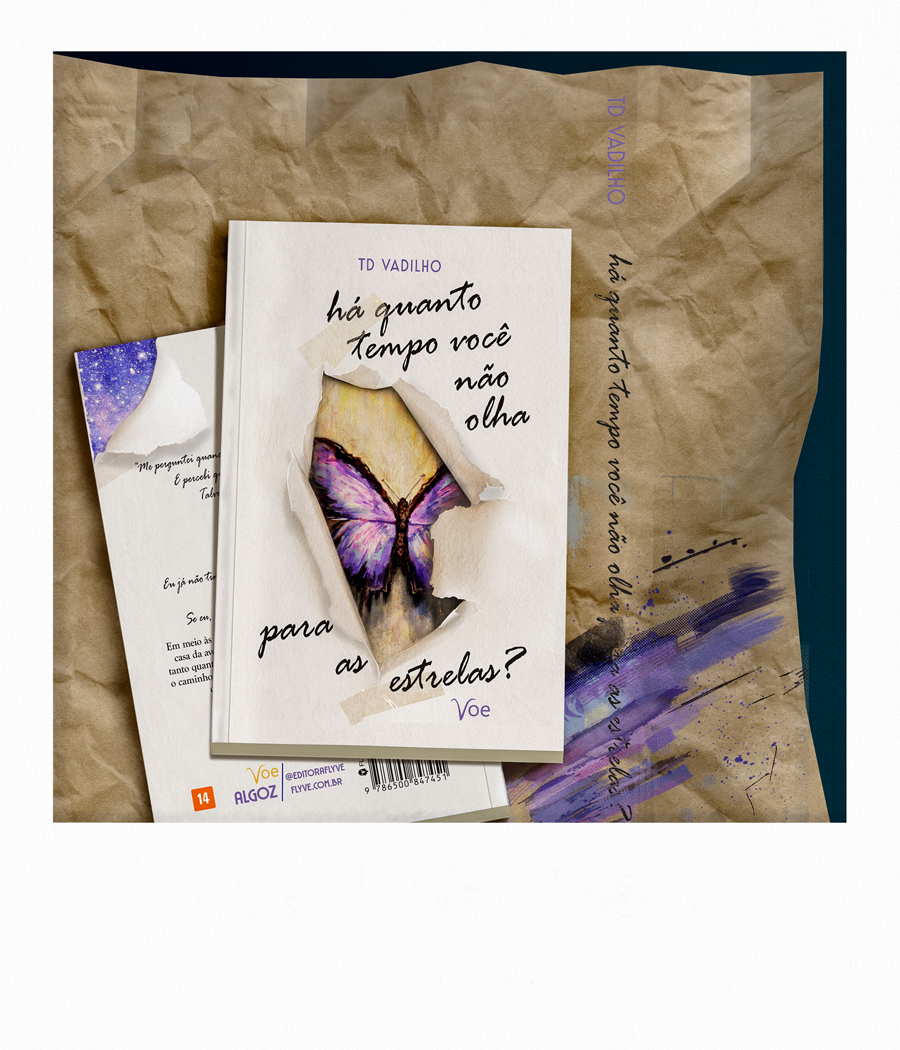
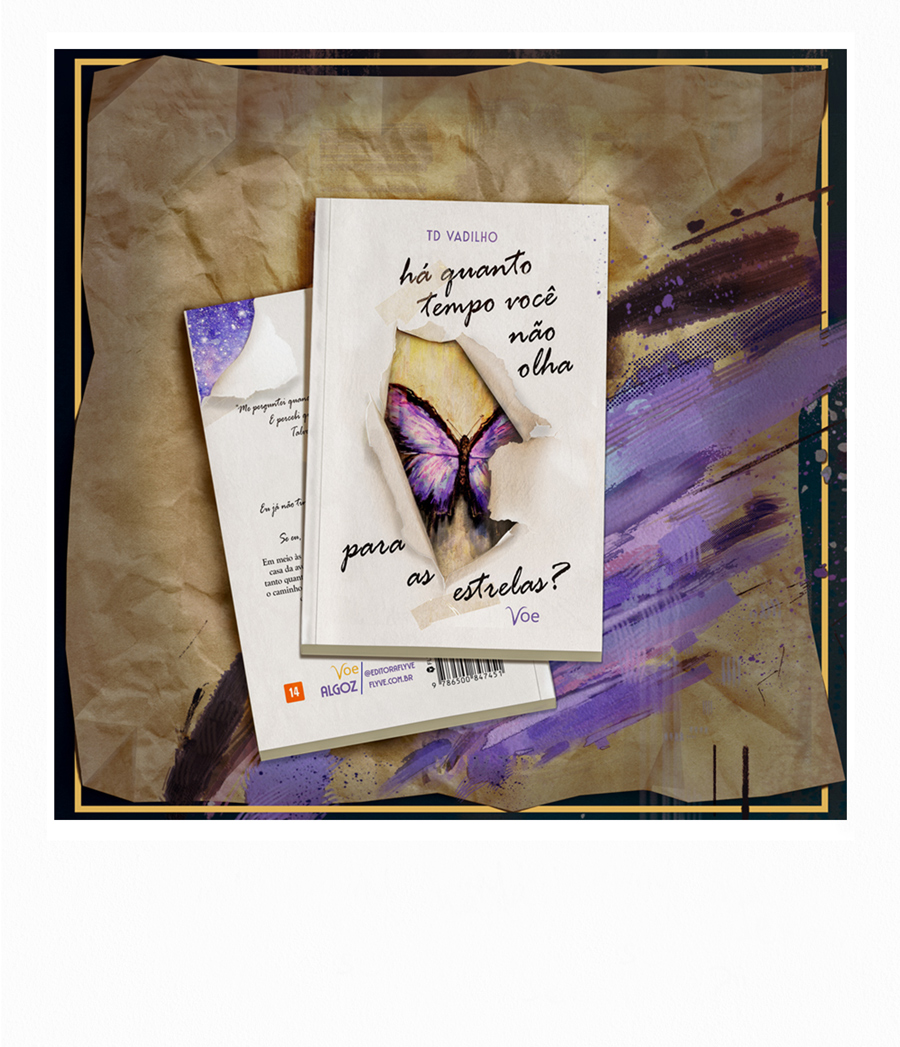
testando coisas da pre-venda

diff --git a/layouts/newsletter/index.html b/layouts/newsletter/index.html
@@ -168,7 +168,7 @@
 
 <!-- NOVIDADE -->
     <!--[if mso | IE]></td></tr></table><table align="center" border="0" cellpadding="0" cellspacing="0" class="" style="width:600px;" width="600" bgcolor="#ffffff" ><tr><td style="line-height:0px;font-size:0px;mso-line-height-rule:exactly;"><![endif]-->
-		<div style="background:#ffffff; background-color:#ffffff; margin:0px auto; max-width:600px; padding-bottom: 25px; ">
+		<div style="background:#ffffff; background-color:#ffffff; margin:0px auto; max-width:600px;  ">
 			<table align="center" border="0" cellpadding="0" cellspacing="0" role="presentation" style="background:#ffffff;background-color:#ffffff;width:100%;">
 				<tbody>
 					<tr style="text-align: center;">
@@ -181,74 +181,28 @@
 											<td align="left" style="font-size:0px; hyphens: auto;">
 												<div style="font-family:Verdana,Arial, sans-serif;font-size:13px; line-height:22px; text-align:left; color:#55575d;">
 													<!-- ATUALIZAR TEXTO AQUI! -->
-													<p style="color:#151e23; font-size:18px; font-family:Verdana,Arial,sans-serif; font-variant: small-caps; text-align: center;"><b>A página do meu livro está no ar!</b></p>
+													<p style="color:#151e23; font-size:18px; font-family:Verdana,Arial,sans-serif; font-variant: small-caps; text-align: center;"><b>A pré-venda oficial do livro começou!</b></p>
 													
 													<!-- ATUALIIZAR IMAGEM AQUI! -->
 													<img height="auto" src="http://beta.tdvadilho.com/imagens/livros/haqnto/banner-HaQuantoTempoVoceNaoOlhaParaAsEstrelas-TDVadilho-Thumb-noai-noimageai.jpg" style="box-shadow: rgba(0, 0, 0, 0.33) 0px 1px 3px 0px;border:0; display:block;outline:none;text-decoration:none;height:auto;width:100%;font-size:13px;" alt="alt da imagem" />
 													
-													<p style="line-height: 16px; margin: 20px 0; font-size:15px; color:#151e23; font-family:Verdana,Arial,sans-serif; color:#354552">Depois de muito trabalho, venho te convidar para conhecer a página que fiz no site para apresentar o meu livro 🥰</p>
+													<p style="line-height: 16px; margin: 20px 0; font-size:15px; color:#151e23; font-family:Verdana,Arial,sans-serif; color:#354552">É com extrema felicidade que venho compartilhar o início da pré-venda do meu primeiro livro🥰 — <i>Há quanto tempo você não olha para as estrelas?</i> — A pré-venda ocorrerá durante as próximas duas semanas no site da editora
+														e é importante avisar que eles resolveram colocar o <b>frete grátis</b> durante esses dias!</p>
 													<a href="https://www.tdvadilho.com/livros" target="_blank" style="text-decoration: none;">
-														<p style="width:70%; line-height: 110%; background: #5F7183; color:#ffffff; font-family:Verdana,Arial,sans-serif; font-size:14px; font-weight:normal; margin:auto; text-decoration:none; text-transform:none; padding:10px 25px; mso-padding-alt:0px; border-radius:3px; text-align: center;"> Conferir a página</p>
+														<p style="width:70%; line-height: 110%; background: #5F7183; color:#ffffff; font-family:Verdana,Arial,sans-serif; font-size:14px; font-weight:normal; margin:auto; text-decoration:none; text-transform:none; padding:10px 25px; mso-padding-alt:0px; border-radius:3px; text-align: center;"> Conferir a pré-venda </p>
 													</a>
+
+													<p style="line-height: 16px; margin: 20px 0; font-size:15px; color:#151e23; font-family:Verdana,Arial,sans-serif; color:#354552">Esse é um momento super importante e, por isso, gostaria de pedir a sua ajuda para promover essa pré-venda. </p>
+													<p style="line-height: 16px; margin: 20px 0; font-size:15px; color:#151e23; font-family:Verdana,Arial,sans-serif; color:#354552">Se conhecer alguém que goste de ler, por favor, compartilhe o início da pré-venda com ela. Para facilitar, eu vou deixar aqui dois links, que você pode copiar e colar onde quiser (ou  clicar e compartilhar direto pelo site que vai abrir):</p>
+														<p style="text-align:center">➞<a> Postagem no meu instagram</a></p>
+														<p style="text-align:center">➞<a> Link da pré-venda</a></p>
+													<p style="line-height: 16px; margin: 20px 0; font-size:15px; color:#151e23; font-family:Verdana,Arial,sans-serif; color:#354552">Qualquer compartilhamento representa uma possibilidade a mais desse momento dar certo e, por isso, eu já deixo aqui a minha imensa gratidão ❤❤❤</p>
 												</div>
 											</td>
 										</tr>
 									</tbody>
 								</table>
 							</div>
-
-							<!--[if mso | IE]><table role="presentation" border="0" cellpadding="0" cellspacing="0"><tr><td class="" style="vertical-align:top;width:300px;" ><![endif]-->
-							<div class="mj-column-per-50 mj-outlook-group-fix" style="float:left;font-size:0px;text-align:left;direction:ltr;display:inline-block;vertical-align:top;width:100%;">
-								<table border="0" cellpadding="0" cellspacing="0" role="presentation" style="vertical-align:top;" width="100%">
-									<tbody>
-										<tr>
-											<td align="center" style="font-size:0px; padding-bottom: 20px; padding-left: 15px;">
-												<table border="0" cellpadding="0" cellspacing="0" role="presentation" style="border-collapse:collapse;border-spacing:0px;">
-													<tbody>
-														<tr>
-															
-														</tr>
-													</tbody>
-												</table>
-											</td>
-										</tr>
-									</tbody>
-								</table>
-							</div>
-							<!--[if mso | IE]></td></tr></table><![endif]-->
-						</td>
-					</tr>
-				</tbody>
-			</table>
-		</div>
-
-<!-- Especial -->
-    <!--[if mso | IE]></td></tr></table><table align="center" border="0" cellpadding="0" cellspacing="0" class="" style="width:600px;" width="600" bgcolor="#ffffff" ><tr><td style="line-height:0px;font-size:0px;mso-line-height-rule:exactly;"><![endif]-->
-		<div style="background:#354552; background-color:#354552; margin:0px auto; max-width:600px;">
-			<table align="center" border="0" cellpadding="0" cellspacing="0" role="presentation" style="background:#354552;background-color:#354552;width:100%;">
-				<tbody>
-					<tr style="text-align: center;">
-						<td style="direction:ltr;text-align:center;padding-left:25px; padding-right:25px; width:600px;">
-							<!--[if mso | IE]></td><td class="" style="vertical-align:top;width:600px;" ><![endif]-->
-							<div style="font-size:0px;text-align:center;direction:ltr;display:inline-block;vertical-align:top;width:100%;">
-								<table border="0" cellpadding="0" cellspacing="0" role="presentation" style="vertical-align:top;" width="100%">
-									<tbody>
-										<tr>
-											<td align="left" style="font-size:0px;">
-												<div style="font-family:Verdana,Arial, sans-serif; text-align:center; color:#ffffff; margin-bottom: 35px; padding-top:30px;">
-													<!-- ATUALIZAR TEXTO AQUI! -->
-													<p style="font-size:18px; font-variant: small-caps; margin-bottom: 25px;"><b>Uma mensagem para você</b></p>
-													<p style="font-size:15px; line-height:20px; margin-bottom: 20px; hyphens: auto;">Gostaria de te desejar um híper feliz Natal e um mega ano novo! Espero que sejam dias ótimos e que você aproveito ao máximo!</p>
-													<p style="font-size:15px; line-height:20px; margin-bottom: 20px; hyphens: auto;">Além disso, gostaria de te agradecer profundamente por ter me dado a oportunidade de te apresentar o meu trabalho. Saiba que você fez uma enorme
-													diferença no meu ano! Cada vez que leu uma das minhas histórias, cada vez que checou um dos meus vídeos e olhou uma das minhas ilustrações significaram muito para mim. Então, de coração mesmo: muito, mas muito obrigado mesmo!</p>
-													<p style="font-size:15px; line-height:20px; margin-bottom: 20px; hyphens: auto;">Que os dias que vem pela frente sejam maravilhosos!</p>
-												</div>
-											</td>
-										</tr>
-									</tbody>
-								</table>
-							</div>
-							<!--[if mso | IE]></td></tr></table><![endif]-->
 						</td>
 					</tr>
 				</tbody>
@@ -268,27 +222,7 @@
 									<tbody>
 										<tr>
 											<td align="left" style="font-size:0px; padding-left: 15px; hyphens: auto;">
-												<div style="font-family:Verdana,Arial, sans-serif; text-align:center; color:#212122; margin-bottom: 30px; padding-top:20px;">
-													<!-- ATUALIZAR TEXTO AQUI! -->
-														<p style="font-size:18px; font-variant: small-caps; margin-bottom: 25px;"><b>Seção extra</b></p>
-														<p style="font-size:15px; line-height:20px; margin-bottom: 20px; hyphens: auto; text-align: left;">
-															• <b>O que ando lendo?</b>
-																<a href="https://amzn.to/47cx3H0" target="_blank">O chamado de Cthulhu e outros contos</a> e
-																<a href="https://amzn.to/3v3rcpJ" target="_blank">Momo e o senhor do tempo</a>
-															<br>
-															<br>
-															• <b>O que eu mais quero agora?</b>
-																Honestamente, dormir haha. Desde a última newsletter venho trabalhando muito nas coisas do livro. Foram necessários dias e mais dias para responder briefing, corrigir o livro,
-																corrigir a correção do livro, participar da criação da capa, participar da diagramação, criar os textos, os códigos e todas as imagens da página no site; isso fora o que eu já
-																me esqueci...
-															<br>
-															<br>
-															• <b>E as historietas?</b>
-																Infelizmente foi impossível criar uma nova historieta antes do final do ano 😔. Eu até tentei, de verdade; mas como é o meu primeiro livro, precisei focar completamente
-																para entender os processos, aprender o que precisava e colocar as coisas em prática. Bom, faz parte, né? De qualquer forma, <b>as historietas não vão sumir!</b> O projeto
-																continua existindo e, agora que está tudo encaminhado, poderei dedicar tempo para trabalhar na próxima história 😊
-														 
-														</p>
+												<div style="font-family:Verdana,Arial, sans-serif; text-align:center; color:#212122; margin-bottom: 30px; ">
 														<!-- ENCERRAMENTO -->
 														<p style="font-size:15px; font-variant: small-caps; margin-bottom: 30px; hyphens: none;">
 															<b>
@@ -296,7 +230,7 @@
 																<br> <br>
 																Gostou da novidade? Espero que sim!
 																<br>
-																Um abração e tenha um ótimo Natal e um feliz ano novo!
+																Um abração e tenha uma ótima semana!
 																<br>
 																Até a próxima!
 															</b>

diff --git a/layouts/partials/livros_parciais/haqntotempo.html b/layouts/partials/livros_parciais/haqntotempo.html
@@ -36,7 +36,7 @@
                     <h3 class="txt_overmsg_polaroid">Clique para ampliar</h3>
                 </div>
                 <div class="container_img_polaroid">
-                    <img src="/images/haqntopag/polaroids/capa-HaQuantoTempoVoceNaoOlhaParaAsEstrelas-TDVadilho-thumb-LowRes-noai-noimageai.jpg" class="img_polaroid" alt="polaroid 1. Mockup do livro Há quanto tempo você não olha para as estrelas?. Nela é retratado uma borboleta aparecendo em meio ao rasgo de uma folha.">
+                    <img src="/images/haqntopag/polaroids/capa-HaQuantoTempoVoceNaoOlhaParaAsEstrelas-TDVadilho-thumb2-LowRes-noai-noimageai.jpg" class="img_polaroid" alt="polaroid 1. Mockup do livro Há quanto tempo você não olha para as estrelas?. Nela é retratado uma borboleta aparecendo em meio ao rasgo de uma folha.">
                 </div>
                 <p class="txt_polaroid">Clique para ampliar</p>
             </div>
@@ -80,7 +80,7 @@
             <div id="container_images">
                 <div class="imageSection">
                     <img src="/images/haqntopag/polaroids/capa-HaQuantoTempoVoceNaoOlhaParaAsEstrelas-TDVadilho-LowRes-noai-noimageai.jpg" alt="Imagem da capa do livro" style="margin-bottom: 15px;">
-                    <img src="/images/haqntopag/polaroids/capa-bigger-HaQuantoTempoVoceNaoOlhaParaAsEstrelas-TDVadilho-LowRes-noai-noimageai.jpg" alt="Imagem da capa do livro">
+                    <img src="/images/haqntopag/polaroids/capa-HaQuantoTempoVoceNaoOlhaParaAsEstrelas-TDVadilho-thumbBigger-LowRes-noai-noimageai.jpg" alt="Imagem da capa do livro">
                 </div>
 
                 <div class="imageSection realignClass">
@@ -1367,7 +1367,8 @@
     }
     
     let comprarLivroFisico = function(c) {
-        c.stopPropagation()
+        window.open("https://www.w3schools.com");
+        /* c.stopPropagation()
         let containerComprarLivroFisico = document.getElementById("comprarLivroFisicoSnack");
         containerComprarLivroFisico.style.display = "inline-flex";
         flagComprarLivroFisicoAberto  = true;
@@ -1377,7 +1378,7 @@
             } else{
                 closeComprarLivroFisico();  
             }
-        }, options = {"once": true})
+        }, options = {"once": true}) */
     }
 
     document.addEventListener('keydown', (ev) => {

diff --git a/layouts/_default/index.html b/layouts/_default/index.html
@@ -29,19 +29,20 @@
                             <div id="novidadeDestaque">
                                 <header class="header_novidades">
                                         <h2>Há quanto tempo você não olha para as estrelas?</h2>  
-                                        <h4> Página do livro </h4> 
+                                        <h4> Pré-venda do livro aberta!!! </h4> 
                                 </header>
 
                                 <div class="imgContainer_novidadeDestaque img_shadow"><img src="{{ .Params.imgUltNovidade}}" alt="{{ .Params.altUltNovidade }}"/></div >
 
                                 <p class="txt_informaçõesPost">
-                                    <span class="icon alt fa-calendar-o"> 23 de Dez de 2023</span> 
-                                    <span class="icon alt fa-clock-o"> 10 minutos </span>
+                                    <span class="icon alt fa-calendar-o"> 16 de Jan de 2024</span> 
+                                    <span class="icon alt fa-clock-o"> 5 minutos </span>
                                     <!-- <img class="icon_classifIndicativa" src="/images/classInd10.svg"> Linguagem inapropriada leve -->
                                 </p>
 
                                 <p class="txt_hideOverflowTrêsLinhas">
-                                    Depois de dias e mais dias trabalhando, a página do meu primeiro livro está pronta para você checar!!
+                                    Depois de dias e mais dias (e mais alguns dias) de trabalho, a pré-venda do meu livro foi <b>aberta</b> 🥰
+                                    <br>Clique aqui para conferir!!
                                 </p>
                             </div>
                         </a>

diff --git a/layouts/livros/index.html b/layouts/livros/index.html
@@ -149,11 +149,17 @@
         }
 
         .selected{
-            transform: scale(1.15);
+            transform: scale(1.1);
+        }
+
+        .selected img{
+            box-shadow: rgb(38, 57, 77) 0px 20px 30px -10px;
         }
 
         .imagemPainel {
             max-width: 130px;
+            border-radius: 5px 5px;
+
         }
 
         .image-holder {

diff --git a/layouts/portfolio/list.html b/layouts/portfolio/list.html
@@ -105,7 +105,8 @@
     }
 
     .projeto-container{
-        box-shadow: rgba(0, 0, 0, 0.33) 0px 1px 3px 0px;
+        /* box-shadow: rgba(0, 0, 0, 0.33) 0px 1px 3px 0px; */
+        box-shadow: rgb(38, 57, 77) 0px 10px 20px -10px;
         border-radius: 4px;
         line-height: 0;
         margin-bottom: 15px;
